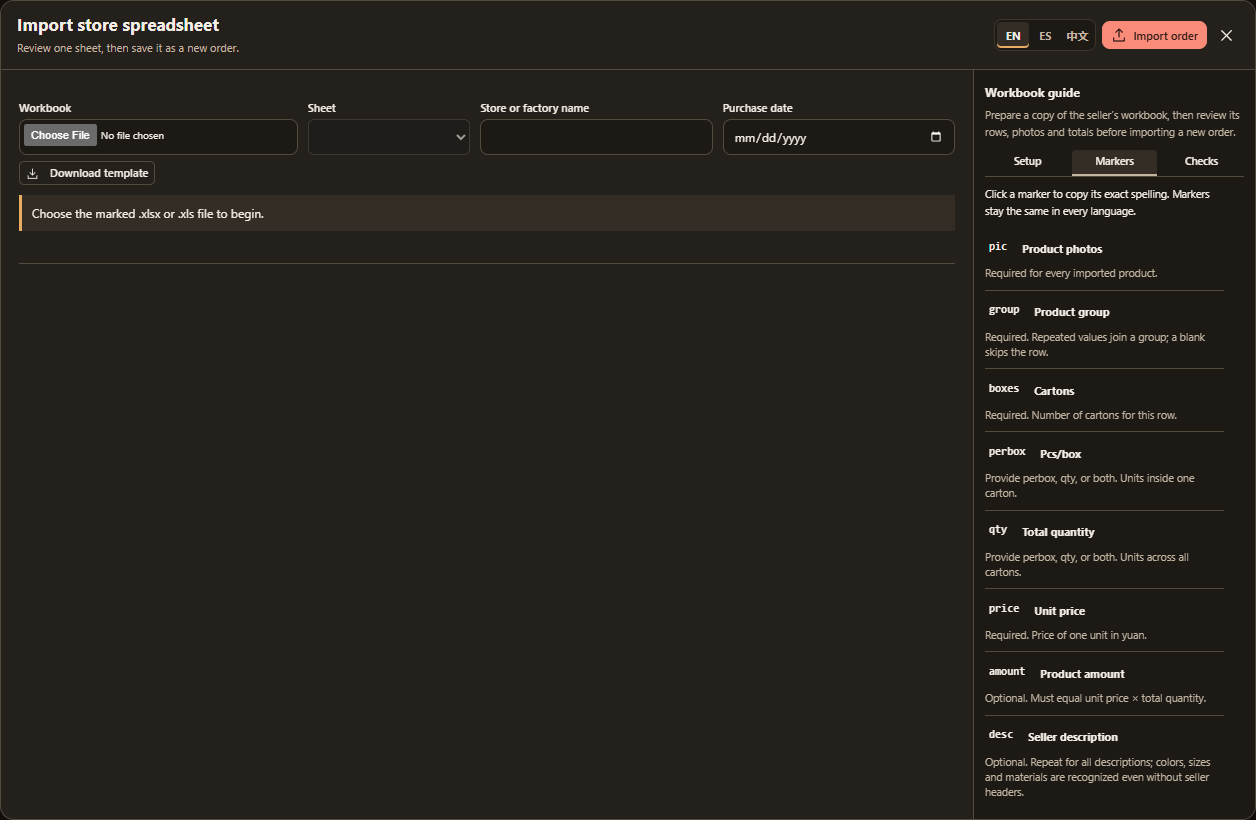
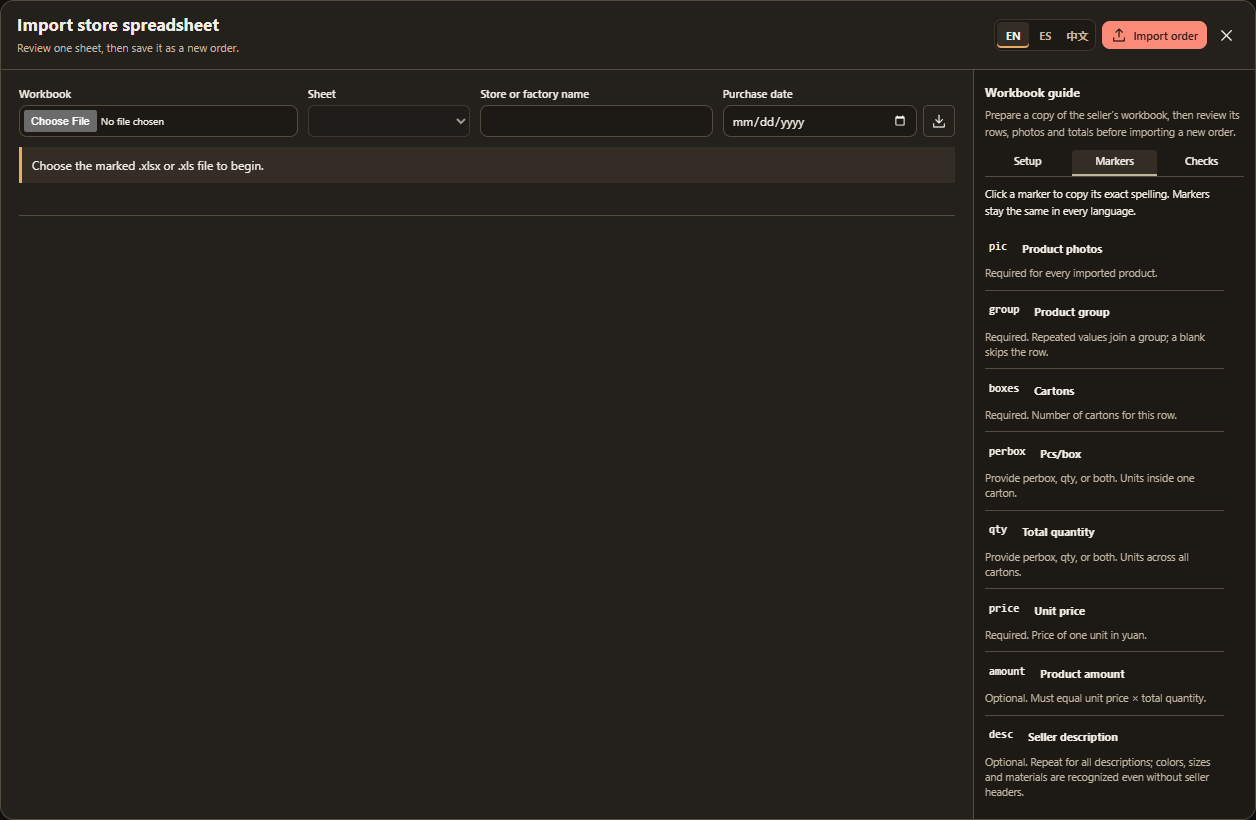
Reuse spreadsheet photos across covered product groups

diff --git a/src/ui-messages-store-import.js b/src/ui-messages-store-import.js
@@ -38,10 +38,10 @@ export const STORE_IMPORT_MESSAGES = {
       zh: 'abcd 表示 A–D 共用一份数量和金额。审核时输入实际分配；不可复制总数或假定平均分配。abs、abm、abl 分别表示 S、M、L 尺码的 A/B 款。',
       es: 'abcd comparte una cantidad e importe entre A–D. Introduce el reparto real al revisar; nunca dupliques los totales ni supongas cantidades iguales. abs, abm y abl indican A/B en tallas S, M y L.',
     },
-  'Every product needs a photo. Missing or uncertain row links block import. Review shared or multiple photos. Thumbnails fit a square without stretching; photo edits keep the original.':
+  'Every product needs a photo. One photo can serve different groups when its anchor or merged pic cell covers their rows. Confirm shared photos during review. Missing or unreadable photos block import. Square thumbnails keep proportions and originals.':
     {
-      zh: '每件商品都需要照片。缺失照片或行关联不明确时会阻止导入。共用照片或多张照片需要审核。缩略图等比适配正方形；编辑会保留原图。',
-      es: 'Cada producto necesita foto. Las fotos ausentes o los vínculos dudosos bloquean la importación. Revisa las fotos compartidas o múltiples. Las miniaturas se ajustan sin deformarse y la edición conserva el original.',
+      zh: '每件商品都需要照片。图片锚定范围或合并的 pic 单元格覆盖对应行时，不同商品组可以共用照片。审核时请确认共用照片。缺失或无法读取的照片会阻止导入。正方形缩略图保持比例，并保留原图。',
+      es: 'Cada producto necesita foto. Una foto puede servir a distintos grupos si su anclaje o celda pic combinada cubre sus filas. Confirma las fotos compartidas al revisar. Las fotos ausentes o ilegibles bloquean la importación. Las miniaturas cuadradas conservan las proporciones y los originales.',
     },
   'Review loose units and shared cartons separately from ordered quantities. Never infer fractional or mixed cartons. Add and explain extra order costs separately.':
     {
@@ -82,10 +82,9 @@ export const STORE_IMPORT_MESSAGES = {
     zh: '确认第 {0} 项审核',
     es: 'Confirmar revisión {0}',
   },
-  'Shared group photo': { zh: '组内共用照片', es: 'Foto compartida del grupo' },
-  'Photo overlaps groups': {
-    zh: '照片跨越商品组',
-    es: 'Foto entre grupos distintos',
+  'Shared product photo': {
+    zh: '商品共用照片',
+    es: 'Foto compartida de productos',
   },
   'Missing product photo': {
     zh: '缺少商品照片',
@@ -112,10 +111,6 @@ export const STORE_IMPORT_MESSAGES = {
   'Confirm these rows share this photo.': {
     zh: '请确认这些商品行共用此照片。',
     es: 'Confirma que estas filas comparten la foto.',
-  },
-  'Anchor a separate photo inside each group in Excel.': {
-    zh: '请在 Excel 中为每个商品组分别定位照片。',
-    es: 'Ancla una foto separada dentro de cada grupo en Excel.',
   },
   'Paste a picture into this row’s pic cell in Excel.': {
     zh: '请在 Excel 中将照片粘贴到此行的 pic 单元格。',
@@ -289,25 +284,20 @@ export const STORE_IMPORT_MESSAGES = {
       zh: '同组有多个源数据行时，合并款式必须有不同尺寸。请将每个款式分行，或使用 abs、abm、abl 等不同尺寸的组合。',
       es: 'Un grupo con varias filas no puede combinar variantes sin tallas distintas. Usa una fila por variante o surtidos de tallas distintas como abs, abm y abl.',
     },
-  'One picture overlaps different groups. Anchor separate pictures to the correct product rows in Excel before importing.':
-    {
-      zh: '一张照片跨越不同商品组。请先在 Excel 中为正确的商品行分别插入并定位图片。',
-      es: 'Una foto abarca grupos distintos. Ancla fotos separadas a las filas correctas en Excel antes de importar.',
-    },
   'This picture is not embedded as a readable raster image. Paste the picture into its product row in Excel.':
     {
       zh: '此照片未以可读取的位图形式嵌入。请在 Excel 中将照片粘贴到对应的商品行。',
       es: 'Esta foto no está incrustada como una imagen legible. Pégala en su fila de producto en Excel.',
     },
-  'This picture spans several rows of one group. Confirm that the group shares this picture.':
+  'This picture covers multiple product rows, which may belong to different groups. Confirm these rows share this photo.':
     {
-      zh: '此照片跨越同组的多行。请确认此组共用这张照片。',
-      es: 'Esta foto abarca varias filas de un grupo. Confirma que el grupo comparte la foto.',
+      zh: '此照片覆盖多个商品行，这些行可以属于不同商品组。请确认这些商品行共用此照片。',
+      es: 'Esta foto cubre varias filas de productos, que pueden pertenecer a distintos grupos. Confirma que estas filas comparten la foto.',
     },
-  'Every included product row needs an embedded picture anchored to its pic cell or a merged pic cell within its group.':
+  'Every included product row needs an embedded picture anchored to its pic cell or a merged pic cell covering that row.':
     {
-      zh: '每个待导入商品行都需要嵌入照片，并定位在其 pic 单元格或同组的合并 pic 单元格内。',
-      es: 'Cada fila incluida necesita una foto incrustada anclada a su celda pic o a una celda pic combinada dentro de su grupo.',
+      zh: '每个待导入商品行都需要嵌入照片，并定位在其 pic 单元格或覆盖该行的合并 pic 单元格内。',
+      es: 'Cada fila incluida necesita una foto incrustada anclada a su celda pic o a una celda pic combinada que cubra esa fila.',
     },
   'The product rows total ¥{computedTotal}, but the whole-order total control is ¥{total}. Correct the source values before importing.':
     {

diff --git a/src/store-import-dialog.js b/src/store-import-dialog.js
@@ -105,8 +105,7 @@ const issueMessage = (issue) =>
   })
 
 const issueTitles = {
-  'photo-shared': 'Shared group photo',
-  'photo-cross-group': 'Photo overlaps groups',
+  'photo-shared': 'Shared product photo',
   'photo-missing': 'Missing product photo',
   'photo-unresolved': 'Unreadable photo',
   'variant-allocation': 'Split variant quantities',
@@ -117,7 +116,6 @@ const issueTitles = {
 }
 const issueInstructions = {
   'photo-shared': 'Confirm these rows share this photo.',
-  'photo-cross-group': 'Anchor a separate photo inside each group in Excel.',
   'photo-missing': 'Paste a picture into this row’s pic cell in Excel.',
   'photo-unresolved': 'Replace this picture with an embedded image in Excel.',
   'variant-allocation':
@@ -137,8 +135,7 @@ function issueContext(issue, analysis, sheet) {
         .some((cell) => addresses.has(cell))
   )
   const photos = [...new Set(rows.flatMap((row) => row.photos))]
-  // An invalid cross-group anchor is still useful visual evidence, even though
-  // validation correctly refuses to attach that picture to imported products.
+  // Keep anchored visual evidence available for issues without an assigned photo.
   const assigned = photos.length > 0
   for (const image of sheet?.images ?? []) {
     if (assigned || !image.dataUrl || !image.from) continue
@@ -465,17 +462,19 @@ export function openStoreImportDialog({ repository, onImported = () => {} }) {
   decorateIcon(submit, 'upload')
   actions.append(popupLanguageToggle(dialog), submit, close)
   header.append(heading, actions)
+  const dateField = field('Purchase date', purchaseDate)
+  dateField.classList.add('store-import-date-field')
   setup.append(
     field('Workbook', file),
     field('Sheet', sheet),
     field('Store or factory name', storeName),
-    field('Purchase date', purchaseDate)
+    dateField
   )
-  const templateTools = el('div', undefined, 'store-import-file-tools'),
-    template = decorateIcon(
-      el('a', m('Download template'), 'button store-import-template'),
-      'download'
-    )
+  const template = decorateIcon(
+    el('a', m('Download template'), 'button store-import-template'),
+    'download',
+    { iconOnly: true }
+  )
   template.href = 'assets/store-order-template.xlsx'
   template.download = 'store-order-template.xlsx'
   bindAttribute(
@@ -485,8 +484,7 @@ export function openStoreImportDialog({ repository, onImported = () => {} }) {
       'Download an editable workbook with ready import markers, formatted product rows and formulas.'
     )
   )
-  templateTools.append(template)
-  setup.firstElementChild.append(templateTools)
+  dateField.append(template)
   reviewLabel.append(
     photosReviewed,
     el('span', m('I checked the product photos, quantities and order total.'))

diff --git a/src/store-workbook-model.js b/src/store-workbook-model.js
@@ -611,15 +611,6 @@ export function analyzeStoreSheet(workbook, sheetName) {
         )
     affected = [...new Set(affected)]
     if (!affected.length) continue
-    if (new Set(affected.map((row) => row.group)).size > 1) {
-      issue(
-        'error',
-        'photo-cross-group',
-        'One picture overlaps different groups. Anchor separate pictures to the correct product rows in Excel before importing.',
-        affected.map((row) => row.cells.pic)
-      )
-      continue
-    }
     if (!image.dataUrl || image.unresolved) {
       issue(
         'error',
@@ -629,12 +620,12 @@ export function analyzeStoreSheet(workbook, sheetName) {
       )
       continue
     }
-    const shared = groups.get(affected[0].group) || affected
-    if (shared.length > 1 && affected.length > 1)
+    // Photo ownership follows its explicit pic-cell coverage, independently of groups.
+    if (affected.length > 1)
       issue(
         'review',
         'photo-shared',
-        'This picture spans several rows of one group. Confirm that the group shares this picture.',
+        'This picture covers multiple product rows, which may belong to different groups. Confirm these rows share this photo.',
         affected.map((row) => row.cells.pic)
       )
     for (const row of affected)
@@ -645,7 +636,7 @@ export function analyzeStoreSheet(workbook, sheetName) {
       issue(
         'error',
         'photo-missing',
-        'Every included product row needs an embedded picture anchored to its pic cell or a merged pic cell within its group.',
+        'Every included product row needs an embedded picture anchored to its pic cell or a merged pic cell covering that row.',
         [row.cells.pic].filter(Boolean),
         row.row
       )

diff --git a/src/store-import.css b/src/store-import.css
@@ -71,46 +71,51 @@
     minmax(180px, 1.2fr) minmax(110px, 0.7fr) minmax(160px, 1fr)
     minmax(155px, 1fr);
   gap: 10px;
+  align-items: start;
 }
-.store-import-file-tools {
-  display: flex;
-  flex-wrap: wrap;
+.store-import-date-field {
+  display: grid;
+  grid-template-columns: minmax(0, 1fr) auto;
   align-items: center;
-  gap: 5px;
-  margin-block-start: 6px;
-  color: var(--muted);
-  font-size: 10px;
+  column-gap: 6px;
 }
-.store-import-file-tools .store-import-template {
+.store-import-date-field > label {
+  grid-column: 1 / -1;
+}
+.store-import-date-field .store-import-template {
+  box-sizing: border-box;
   display: inline-flex;
-  flex: 0 0 auto;
   align-items: center;
-  gap: 5px;
-  min-block-size: 24px;
-  padding: 3px 6px;
+  justify-content: center;
+  inline-size: 32px;
+  min-inline-size: 32px;
+  block-size: 32px;
+  min-block-size: 32px;
+  padding: 6px;
   border-radius: 5px;
-  font-size: 11px;
-  line-height: 1.3;
 }
 .store-import-template .ui-icon {
-  inline-size: 13px;
-  block-size: 13px;
+  inline-size: 16px;
+  block-size: 16px;
 }
 .store-import-field {
   min-inline-size: 0;
 }
 .store-import-field > label {
   display: block;
-  margin-block-end: 4px;
+  margin: 0 0 4px;
   font-size: 11px;
   font-weight: 600;
 }
-.store-import-field > input,
-.store-import-field > select {
+.store-import-dialog .store-import-field > input,
+.store-import-dialog .store-import-field > select {
   box-sizing: border-box;
   inline-size: 100%;
   min-inline-size: 0;
   min-block-size: 32px;
+  block-size: 32px;
+  margin: 0;
+  padding: 5px 8px;
   font-size: 12px;
 }
 .store-import-field > small {

diff --git a/src/store-spreadsheet-guide.js b/src/store-spreadsheet-guide.js
@@ -223,7 +223,7 @@ export function mountStoreSpreadsheetGuide(
     ),
     section(
       'Review photos before importing',
-      'Every product needs a photo. Missing or uncertain row links block import. Review shared or multiple photos. Thumbnails fit a square without stretching; photo edits keep the original.'
+      'Every product needs a photo. One photo can serve different groups when its anchor or merged pic cell covers their rows. Confirm shared photos during review. Missing or unreadable photos block import. Square thumbnails keep proportions and originals.'
     ),
     section(
       'Keep packing exceptions explicit',

diff --git a/CHROMEWEBSTORE.md b/CHROMEWEBSTORE.md
@@ -2,6 +2,10 @@
 
 > Last Updated: 2026-10-21
 
+The local shared-photo importer correction reuses embedded pictures across every included product row covered by their anchors or merged `pic` cells, including different product groups. Shared-photo review remains explicit; missing/unreadable images and financial mismatches still block import. Original assets remain deduplicated. The template download is a compact translated icon beside Purchase date, removing its separate control row. No new permissions, network services or privacy changes. Verification is recorded below; this candidate is local only.
+
+Shared-photo correction verification (2026-10-21): all 849 unit tests and all 11 affected packaged Chromium cases passed. Coverage includes cross-group and merged-cell photo reuse, skipped/uncovered rows, galleries, unreadable images, actual worker import with one shared original asset, unchanged review guards, three-language labels, aligned desktop/narrow setup controls and a completed template download. One new test initially lost its English-named dialog locator after changing languages; the corrected stable locator and the complete affected browser rerun passed. The supplied workbook was read without modification and now has photos on every included row with no blocking issues. Source, formatting, documentation and production-build checks passed; synthetic screenshots were refreshed and inspected. The complete browser suite, installed-extension acceptance, native Excel and physical printing were not run. Installed reload remains blocked by the existing browser policy. No owner-library writes, push or publication.
+
 The local packing-workbook update adds a direct bottom-toolbar Excel download with editable product data, small embedded composed photos and code badges, bilingual headings and received/loaded carton formulas. Monthly received and loaded box confirmations save independently and travel through full/scoped backups. Packing groups scroll continuously in a viewport-sized workspace, retaining a bounded set of cards and active edits. New photo annotations default to 275%; existing photo artwork keeps its authored size. No permissions or remote services are added. All 847 unit tests and the affected packaged Chromium cases passed across coordinated runs, including 121 groups, pending numeric edits, actual XLSX/JSON downloads and photo-tag persistence. Workbook formulas were recalculated and its synthetic output visually rendered. Source/docs/format checks and the production build passed. Installed-extension acceptance, native Excel and physical printing remain unverified; the existing installed-browser reload policy block remains. No push or publication.
 
 > Version 2.9.0 changes code ownership to current assignments only, discards session edits on packing removal, adds labeled before/after conflict reviews, fixes tooltip movement and code-input clipping, keeps Orders and Products in newest-purchase-first order as imports arrive, adds individual hover-copy controls to every image-copy popup, adds persistent Skip packing choices for fee and other excluded product rows, offers Assign only without leaving Orders, keeps long-popup actions at the top, converges copy formats and compact packing backup, and adds contextual keyboard shortcuts led by Ctrl+Enter for Prepare. Local verification passed across the full and focused runs documented below. Version 2.8.0 added consistent code-band proportions, a flatter packing form, a richer order selector, 45 searchable copy fields, Excel-image appearance/details customization, session Undo/Redo after autosave, editable conflict recovery and clearer historical ownership evidence. New assignments always require review; size-recognition preferences save without a warning when codes stay unchanged. Local source, documentation, unit and browser checks passed across the runs described below. Live order collection, installed embedded-browser acceptance and physical printing remain unverified. No store submission or publication.
@@ -36,7 +40,7 @@ Local candidate adds marked store/factory spreadsheet import (`.xlsx` and genuin
 
 Orders cards keep long order references in details, omit repeated store-number badges, and show a minimal red extra-cost amount. Store details keeps Additional charges visible and aligns compact Save controls for spreadsheet store names and optional WeChat IDs. Saved contacts are shared across orders with the same known store identity in an account; a small copy icon confirms successful copying. Generated Imported badges and new controls translate into English, Spanish and Chinese. WeChat IDs stay in local storage/backups and are never sent to WeChat or another service. No additional permissions are requested.
 
-The spreadsheet import popup keeps instructions in a compact right sidebar with Setup, Markers and Checks tabs. Copyable marker cards replace the wide marker table, filename examples align beneath their headings, and guidance scrolls independently from the order review. The layout stacks on smaller screens without hiding the instructions. Download template sits beside the file chooser; compact import controls remain available at the top. The same guide is available from Settings.
+The spreadsheet import popup keeps instructions in a compact right sidebar with Setup, Markers and Checks tabs. Copyable marker cards replace the wide marker table, filename examples align beneath their headings, and guidance scrolls independently from the order review. The layout stacks on smaller screens without hiding the instructions. The Download template icon sits beside Purchase date; compact import controls remain available at the top. The same guide is available from Settings.
 
 **Extension Name** [REQUIRED]: 1688toCSV
 

diff --git a/docs/automation.md b/docs/automation.md
@@ -56,9 +56,9 @@ Products has no page controls. Scroll `.table-scroll` or use row keyboard naviga
 
 **Import spreadsheet** opens a local workbook review. Select `.xlsx` or `.xls`, choose a sheet, enter a purchase date and confirm the store name. Review every highlighted source-cell issue, shared photo and combined-variant allocation. Only a valid, explicitly reviewed order can be saved; successful import refreshes Products immediately. Closing during file parsing terminates its worker, while a database save locks dismissal. Every import creates a new order. Spreadsheet orders have no 1688 source link or refresh action. **Settings → Data → Store spreadsheet guide** opens the same keyboard-operated, copyable format documentation without starting an import or changing the Settings draft.
 
-The canonical markers are `pic`, `desc`, `boxes`, `perbox`, `qty`, `price`, `amount`, `group`, `var`, `kg`, `cbm`, `cbmx`, `cbmy`, `cbmz` and `total`. `amount` checks a source row; exactly two `total` markers surround the whole-order control. Unknown columns are ignored. Failed formulas, missing cached results, inconsistent arithmetic and missing or cross-group picture links block saving. Use actual quantities to split combined variants; source cartons stay shared. Weight and volume always describe one carton. **Carton details** edits local measurements; **Additional charges** reviews order-wide cost increases without replacing original prices. Photo viewers retain all original pictures and save square compositions separately.
+The canonical markers are `pic`, `desc`, `boxes`, `perbox`, `qty`, `price`, `amount`, `group`, `var`, `kg`, `cbm`, `cbmx`, `cbmy`, `cbmz` and `total`. `amount` checks a source row; exactly two `total` markers surround the whole-order control. Unknown columns are ignored. Failed formulas, missing cached results, inconsistent arithmetic and missing or unreadable pictures block saving. A photo anchored across multiple included rows or their merged `pic` cell is reused across all covered groups after shared-photo review; uncovered rows are never filled by proximity or group membership. Use actual quantities to split combined variants; source cartons stay shared. Weight and volume always describe one carton. **Carton details** edits local measurements; **Additional charges** reviews order-wide cost increases without replacing original prices. Photo viewers retain all original pictures and save square compositions separately.
 
-**Download template** provides the blank Orders / Guide workbook beside the file chooser. The Setup / Markers / Checks sidebar explains filenames and the format without leaving review. **Check all** acknowledges eligible warnings only; it does not bypass validation or allocate variants. In **Edit photo**, A–E and size buttons compose variant tags (including mixed codes) without a dropdown. Clicking a product starts its label in the nearest corner; **Tag size** scales every tag in that one photo together (60%–600%). **Pointer size** separately scales all pointing circles, preserving labels, leaders and positions. Both sliders use fixed percentage stops; accessible value text reports the percentage, not the internal slider index. Save commits the composition; Cancel preserves the previous version. Read the [China-store developer contract](development.md#china-store-spreadsheets) before automating store identity, shared cartons or photo persistence. A manually reviewed carton-print count does not track physical mixed-carton contents or shipped-unit allocations.
+The **Download template** icon beside Purchase date provides the blank Orders / Guide workbook. The Setup / Markers / Checks sidebar explains filenames and the format without leaving review. **Check all** acknowledges eligible warnings only; it does not bypass validation or allocate variants. In **Edit photo**, A–E and size buttons compose variant tags (including mixed codes) without a dropdown. Clicking a product starts its label in the nearest corner; **Tag size** scales every tag in that one photo together (60%–600%). **Pointer size** separately scales all pointing circles, preserving labels, leaders and positions. Both sliders use fixed percentage stops; accessible value text reports the percentage, not the internal slider index. Save commits the composition; Cancel preserves the previous version. Read the [China-store developer contract](development.md#china-store-spreadsheets) before automating store identity, shared cartons or photo persistence. A manually reviewed carton-print count does not track physical mixed-carton contents or shipped-unit allocations.
 
 ### Tags and backups
 

diff --git a/README.md b/README.md
@@ -109,7 +109,7 @@ Order details keeps store-name and **WeChat ID** fields beside compact Save butt
 
 Import review uses a compact card grid with affected photos, group/row references and relevant values. Review acknowledgments, checked items and blocking errors have distinct colors. **Check all** acknowledges the review items that have checkboxes; arithmetic errors, missing pictures and variant quantities still require correction or manual allocation before import.
 
-Add one row of **import markers** above the seller’s headers in a copy of the workbook. Only marked columns are read. **Download template** beside the file chooser provides a ready workbook. The import popup keeps all instructions in a compact right sidebar with **Setup**, **Markers** and **Checks** tabs; marker cards copy their exact spelling. The guide and order review scroll independently, and the guide stacks below the form on narrow screens. The same guide is available in **Settings → Data → Store spreadsheet guide**.
+Add one row of **import markers** above the seller’s headers in a copy of the workbook. Only marked columns are read. The compact **Download template** icon beside Purchase date provides a ready workbook. The import popup keeps all instructions in a compact right sidebar with **Setup**, **Markers** and **Checks** tabs; marker cards copy their exact spelling. The guide and order review scroll independently, and the guide stacks below the form on narrow screens. The same guide is available in **Settings → Data → Store spreadsheet guide**.
 
 The template has **Orders** and **Guide** sheets, with all English markers in place, 20 blank photo-ready product rows, frozen headings, formatted numeric inputs and quantity/amount formulas. Enter the supplier’s invoice total separately so import can compare it with the calculated line amounts. Save your completed copy as a store number or factory name, add embedded pictures within each product’s photo cell, then save in Excel or WPS and choose **Orders** during import. Blank groups are skipped. For a manually supplied total quantity, replace that row’s quantity formula and leave Pcs/box blank; the Guide explains variants, carton measurements and review rules.
 
@@ -131,7 +131,7 @@ The template has **Orders** and **Guide** sheets, with all English markers in pl
 | `cbmx`, `cbmy`, `cbmz` | Optional complete length, width and height in centimetres; their calculated volume takes priority.           |
 | `total`                | Required twice, surrounding the whole-order amount: `total` · value · `total`.                               |
 
-Quantity and financial mismatches block import and identify their cells. Missing or ambiguous picture links also block import; pictures spanning several rows of one group require confirmation. Combined variants retain one source quantity, amount and carton record. Their reviewed split never duplicates cartons; selecting only part of a shared carton record requires carton-print review. Ordinary unit suffixes such as `6元` or `20.5 K.G.` are accepted, while ambiguous calculations are rejected. Workbook formulas are read from saved results; macros and formulas are never executed.
+Quantity and financial mismatches block import and identify their cells. Missing or unreadable pictures also block import. One photo can serve several product groups when its anchor or merged `pic` cell covers their rows; confirm the shared photo during review. Uncovered rows still need their own linked photo, and blank groups stay skipped. Shared photos retain one original asset. Combined variants retain one source quantity, amount and carton record. Their reviewed split never duplicates cartons; selecting only part of a shared carton record requires carton-print review. Ordinary unit suffixes such as `6元` or `20.5 K.G.` are accepted, while ambiguous calculations are rejected. Workbook formulas are read from saved results; macros and formulas are never executed.
 
 Marked `desc` text uses the shared color, size and material recognition rules. Seller headers help identify article codes and explicit attributes, but a measurement such as `25cm` or `8.5"` does not need a seller header. Comparable measurements receive size endings during preparation; incompatible units or dimensions remain for size review. Unitless values stay unitless. Existing imported descriptions are also recognized without reimporting. Saved codes stay unchanged until you review a reset or a pending size correction.
 

diff --git a/docs/development.md b/docs/development.md
@@ -112,9 +112,9 @@ The only canonical markers are `pic`, `desc`, `boxes`, `perbox`, `qty`, `price`,
 - Join marked `desc` fragments with a centered dot and surrounding spaces (`A · B`) and preserve source text. Nearby seller headers on those marked columns identify roles such as `ITEM NO`/`货号`/`型号`, `Color`/`颜色`, `Size`/`尺寸`, and `Material`/`材质`. Retain seller article numbers as strings, including leading zeros. These properties feed existing naming, color, size, measurement and material recognition; unrelated unmarked columns never become descriptions.
 - [spreadsheet-properties.js](../src/spreadsheet-properties.js) supplies read-only recognition properties from all retained `desc` fragments for items with spreadsheet `sourceGroup` identity, including older imports whose `skuProperties` only retained header-identified fields. Known property values and article numbers are deduplicated before using the shared size/color matchers. Material recognition already reads the combined description. No source snapshot or saved code is rewritten. Comparable measurements use normal size ranking and configured aliases; unitless measurements retain their units as unknown and incompatible dimensions require review. Pending size reanalysis compares the authoritative spreadsheet source group rather than its differing product titles; manually merged source groups stay excluded. Rebuilding existing assigned codes still requires the normal reset review.
 - Packing rows retain each spreadsheet product's combined source title directly below its code; spreadsheet group headers omit the first product's title. Attributes, material and cost share the next wrapping row. `packing-workspace.js` passes source type and separate title/attribute hosts through the renderer and its language refresh; 1688 keeps its group-title display. Shared barcodes retain every distinct source description. `packing-descriptions.spec.mjs` covers market/factory rows, compact geometry, multiline variant notes, narrow wrapping, language changes, shared barcodes and unchanged source snapshots.
-- Missing/unreadable pictures or a picture spanning different groups block import. Multiple linked pictures per product are retained. A picture spanning several rows within one group requires explicit shared-photo review. Use actual anchors/merged photo cells; never silently assign a nearby unrelated image to fill a missing photo.
+- Missing/unreadable pictures block import. A readable photo is reused on every included row covered by its anchor or explicitly merged `pic` cell, even when those rows belong to different groups. A photo covering multiple included rows requires shared-photo review, with every affected group and cell shown. Blank groups are skipped, anchor endpoints with zero offsets stay exclusive, and group membership never extends a photo to uncovered rows. Multiple linked pictures per product are retained; identical originals use the existing content-addressed asset once. Never silently assign a nearby unrelated image to fill a missing photo.
 
-[store-import-dialog.js](../src/store-import-dialog.js) presents source cells, values, photos and colored arithmetic comparisons in compact review cards. **Check all** only checks eligible warning acknowledgments. It cannot bypass blocking errors, variant quantity allocations, confirmed purchase date or final photo/total confirmation. The dialog terminates its parsing worker on close and locks dismissal during the atomic save. Instructions remain in the translated Setup / Markers / Checks sidebar, also available from Settings Data.
+[store-import-dialog.js](../src/store-import-dialog.js) presents source cells, values, photos and colored arithmetic comparisons in compact review cards. **Check all** only checks eligible warning acknowledgments. It cannot bypass blocking errors, variant quantity allocations, confirmed purchase date or final photo/total confirmation. The dialog terminates its parsing worker on close and locks dismissal during the atomic save. Instructions remain in the translated Setup / Markers / Checks sidebar, also available from Settings Data. The template download is a compact labelled icon beside Purchase date, with the same control order on narrow layouts.
 
 ### Variants, cartons and additional charges
 
